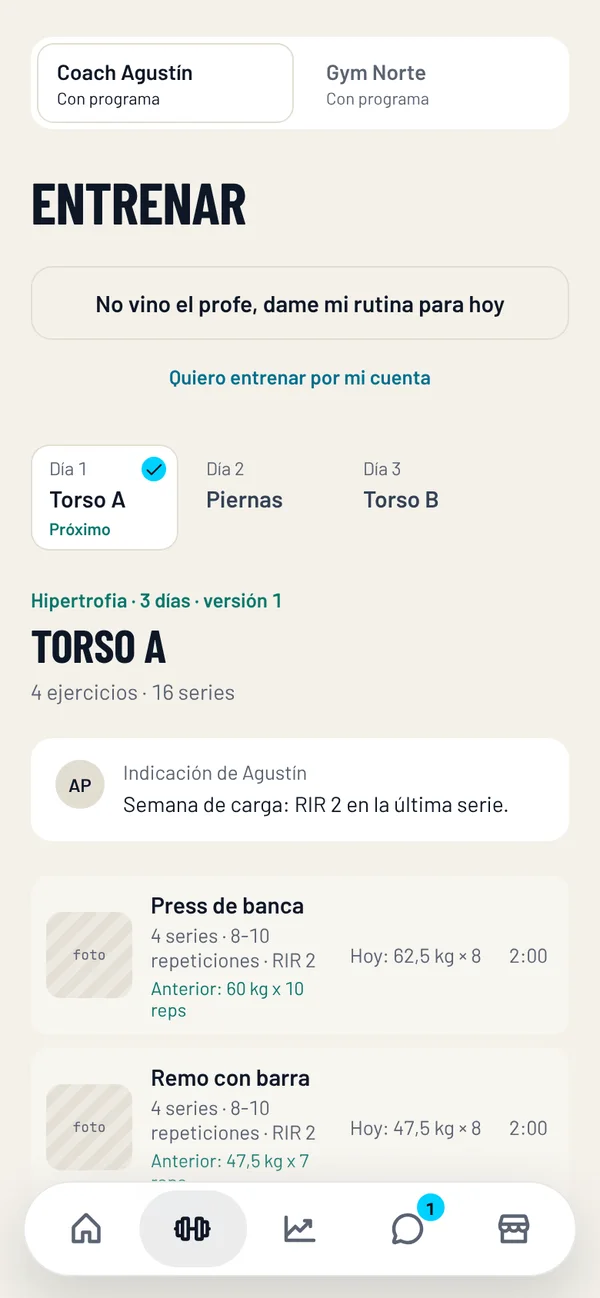
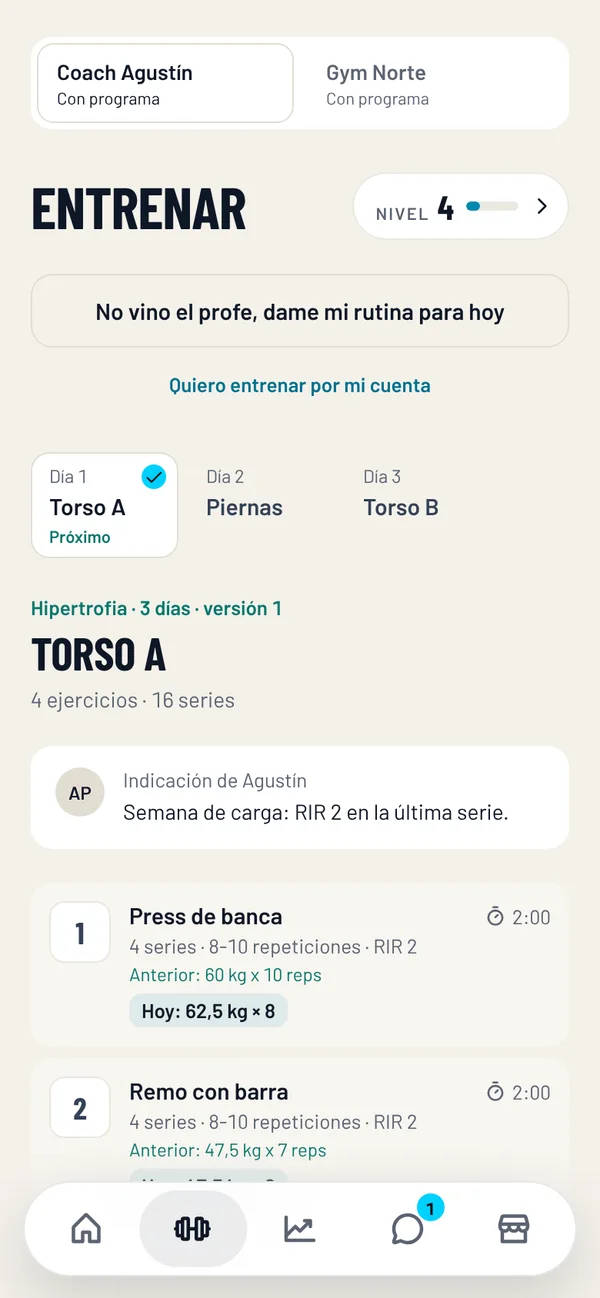
Bitácora del 13/11 y capturas del socio de /conoce con la app publicada (#120)
PROXIMA_SESION: vista del alumno (#119), seis films (#118) y pulido de /conoce (#116) publicados y verificados. /conoce: member, adaptive e intelligence recapturadas con la app publicada.

Claude-Session: https://claude.ai/code/session_01N29uD6UnSfVBnKXaii7k3k

diff --git a/docs/continuidad/PROXIMA_SESION.md b/docs/continuidad/PROXIMA_SESION.md
@@ -1,16 +1,19 @@
 # REPI — Retomar acá
 
-Actualizado: 13/11/2026 (**vista del alumno — aviso de datos del pedido, alerta sonora del descanso, nivel a la vista y mejoras visuales: en la rama `claude/alumno-mejoras`, sin publicar, sin migración**); antes, 13/11/2026 (**REPI Experience 4.0 «The Living Gym» (D219): PUBLICADO Y VERIFICADO (#113, `3c119f2`, smoke de producción en verde, sin migración)**); antes, 12/11/2026 (**arreglo de la limpieza de demos vencidas, alerta «sandbox.purge» 23503: PUBLICADO Y VERIFICADO (#112, `4c01c5a`), sin migración**); antes, 12/11/2026 (**REPI Sales Intelligence 1.0 — Captación (D218, 0056): PUBLICADO (#107 `75995cc`, #108 `7c9c2b5`), 0056 aplicada tras el respaldo #106, piloto cargado en producción**); antes, 12/11/2026 (**Personalización y Progress Intelligence 2.0 (D217, 0055): PUBLICADO Y VERIFICADO (#100, `bd5da5b`, smoke 14/14)**).
+Actualizado: 13/11/2026 (**cierre del 13/11: vista del alumno PUBLICADA Y VERIFICADA (#119, `2f6d7c6`), los seis films restantes PUBLICADOS (#118, `cfb6294`) y pulido de `/conoce` PUBLICADO (#116, `1133920`); todo sin migración**); antes, 13/11/2026 (**REPI Experience 4.0 «The Living Gym» (D219): PUBLICADO Y VERIFICADO (#113, `3c119f2`, smoke de producción en verde, sin migración)**); antes, 12/11/2026 (**arreglo de la limpieza de demos vencidas, alerta «sandbox.purge» 23503: PUBLICADO Y VERIFICADO (#112, `4c01c5a`), sin migración**); antes, 12/11/2026 (**REPI Sales Intelligence 1.0 — Captación (D218, 0056): PUBLICADO (#107 `75995cc`, #108 `7c9c2b5`), 0056 aplicada tras el respaldo #106, piloto cargado en producción**); antes, 12/11/2026 (**Personalización y Progress Intelligence 2.0 (D217, 0055): PUBLICADO Y VERIFICADO (#100, `bd5da5b`, smoke 14/14)**).
 
 
-## Vista del alumno: aviso de datos del pedido, alerta sonora del descanso, nivel a la vista y mejoras visuales — 13/11/2026 · EN RAMA, SIN PUBLICAR
+## Vista del alumno: aviso de datos del pedido, alerta sonora del descanso, nivel a la vista y mejoras visuales — 13/11/2026 · PUBLICADO Y VERIFICADO (#119, `2f6d7c6`)
 
 - **Pedidos del titular (13/11):**
   1. «A algunos alumnos que pidieron rutina cuando no se podían cargar los objetivos no les aparece la notificación para que los carguen y le llegue a REPI».
   2. «En el timer del descanso, que los últimos diez segundos haga un sonido de alerta, que siga sonando hasta que arrancás la serie, y la notificación además. Que tenga que habilitarse».
   3. «Que el nivel de la persona aparezca en la home también, o en la sección de entrenamiento».
   4. «Fijate qué upgrades visuales podés agregar en cada vista. Principalmente la del alumno».
-- **Rama:** `claude/alumno-mejoras` (worktree `/home/user/repi-alumno`), con `main` `301a800` integrado. **Sin PR, sin merge, sin despliegue.** **Sin migraciones** y sin dependencias nuevas.
+- **Estado:** PR #119 integrado por squash en `main` (`2f6d7c6`) y desplegado (aprobación del titular del 13/11: «te doy acceso total y libertad total»). **Sin migraciones** y sin dependencias nuevas.
+- **Verificación en producción (sólo con la demo pública):** Inicio muestra «Te faltan 122 puntos para el nivel 5», Entrenar muestra la píldora de nivel y la lista sin el cuadro «foto», el descanso muestra «Avisarme · Sonido · Notificación», `/api/me/program-request` responde con el campo `late`, sin errores de consola ni respuestas 5xx, y Vercel sin errores de ejecución en la hora posterior.
+- **Revisión antes de publicar:** e2e nuevos y de regresión contra el build de la rama con `main` integrado (`member-brief-late` 16/16 repetido cuatro veces; `member-level`, `member-visual`, `rest-sound`, `member-workout` y `member-home-flow` 20/20). Esa repetición encontró un defecto: tras tocar «Ahora no», una respuesta pedida antes del toque podía volver a mostrar el aviso; corregido (`MemberApp.tsx`, el toque queda firme durante la visita).
+- **Las siete pruebas e2e que fallaban** (`mobile-layout` 2, `personal-progress` 3, `theme-visual` 1, `timed-exercises` 1) fallan igual en `main` sin estos cambios (corrida comparativa: 13 fallas contando teléfono y escritorio): no son regresiones.
 
 ### 1 · Aviso para cargar objetivo y datos del pedido de programa
 - **Causa:** el aviso de D206 (`pendingBriefs`) sólo miraba pedidos de programa **abiertos**. Cuando el profe respondía el pedido, el aviso desaparecía aunque la persona nunca hubiera cargado nada.
@@ -68,7 +71,6 @@ Actualizado: 13/11/2026 (**vista del alumno — aviso de datos del pedido, alert
 - Capturas antes/después: `scratchpad/alumno/t1` … `t4` (fuera del repositorio).
 
 ### Próxima acción
-- El titular revisa y decide la publicación (PR a `main`; no hay migración ni respaldo previo que correr).
 - Probar la alerta del descanso en un Android y en un iPhone reales (pantalla bloqueada, otra app, modo silencio, con música sonando).
 - Si quiere llegar a un iPhone bloqueado: decidir el planificador de push por descanso (ver arriba).
 - Pendiente menor: poner al día las specs que D217 dejó atrás (`mobile-layout`, `personal-progress`, `theme-visual`, `timed-exercises`).
@@ -110,20 +112,21 @@ Actualizado: 13/11/2026 (**vista del alumno — aviso de datos del pedido, alert
   - En esa publicación quedaron sin tocar `perfil-entrenadores`, `perfil-deportistas`, `perfil-aliados`, `f-progreso`, `f-altas` y `f-sala` (rehechos después en `claude/films-6`, ver más abajo).
 - **Pendiente:**
   1. Mirar `/conoce` en un iPhone y en un Android de gama media (fluidez de la sala y giro del dispositivo). Tampoco se probó en Safari ni Firefox, y nadie escuchó los films.
-  2. Revisar y publicar los seis films rehechos (rama `claude/films-6`) y conseguir el logo en vectorial o más grande (hoy 315×154 px) para los cierres.
+  2. ~~Publicar los seis films rehechos~~ **Hecho el 13/11 (#118)**. Sigue pendiente conseguir el logo en vectorial o más grande (hoy 315×154 px) para los cierres.
   3. ~~Volver a capturar `access.webp`, `owner.webp` y `control-equipo.webp` y unificar las capturas de 53 kg~~ **Hecho el 13/11** (ver «Pulido» más abajo).
   4. ~~Referencia del vendedor en eventos del sitio y `/qr`~~ **Descartado por el titular el 13/11** (ver «Pulido» más abajo).
 - **Decisiones para el titular:** confirmar el texto de la prueba social en la apertura («Ya funciona en Mar del Plata.») y en el caso.
 - **Pulido del 13/11 (pedido del titular: «hacé todo lo que tengas que hacer para que todo quede perfecto», con libertad total):**
   - **Referencia del vendedor:** el código ya no se agrega al mensaje de WhatsApp («eso no tiene que estar en /conoce en ningún lado»). Queda sólo lo que ya existía desde D209: si alguien entra por el enlace personal de un vendedor (`/conoce?ref=V-XXXXXX`, que el vendedor copia de su panel), el formulario lo manda oculto como origen del contacto. El visitante no lo ve en ningún lado. Si el titular tampoco quiere eso, hay que quitar el enlace personal del panel de vendedores (decisión de negocio de D209, no se tocó).
   - **Capturas rehechas** con `design/films/kit/tools/shots-conoce.mjs` (demo local): `training`, `intelligence`, `adaptive`, `owner` (ahora «Seguimiento de sala»), `access` y `control-equipo`. Sin avisos del entorno de demo ni píldora «DEMO»; las del socio muestran el mismo ejemplo que la escena en vivo (60 kg × 10 → 62,5 kg, calculado por el motor real). Detalle en `docs/comercial/EXPERIENCE_4.md` §8.
-  - **Los seis films restantes: rehechos en la rama `claude/films-6`, SIN publicar (sin PR, merge ni deploy): esperan revisión.**
+  - **Los seis films restantes: PUBLICADOS (#118, `cfb6294`).** Revisados antes con tiras de contacto propias de los siete archivos; en producción los archivos son idénticos a los del repositorio y `perfil-entrenadores` carga y reproduce desde `/conoce/entrenadores` (0:41, sin errores). Ya no queda ningún film con el kit anterior.
     - `perfil-entrenadores` 0:41, `perfil-deportistas` 0:38 (16:9 y 9:16), `perfil-aliados` 0:48, `f-progreso` 0:23, `f-altas` 0:26, `f-sala` 0:27.
     - Archivos: `apps/web/public/conoce/videos/` (mp4, póster y `.descripcion.vtt` de los seis), `apps/web/src/content/conoce.ts` (duraciones y resúmenes), `design/films/kit/` (`build.py`, `tools/rec-hd.mjs`, `finish.py`, `render-all.sh`), fuentes en `design/films/{entrenadores,deportistas,deportistas-vertical,aliados,progreso,altas,sala}`, `design/films/SPEC.md`, `docs/comercial/{EXPERIENCE_4,VIDEOS_PENDIENTES}.md`, `marketing/videos/LICENCIAS.md`.
     - Pruebas: `ffprobe` y sonoridad medidos (−14,0 a −14,6 LUFS; pico ≤ −2,1 dBTP), tira de contacto de cada archivo mirada entera; `pnpm typecheck` y guardas en verde. No se corrió la e2e de `/conoce` ni se escuchó ningún film. Sin migraciones.
     - Decisión para el titular: `perfil-aliados` dice «Ya funciona en Mar del Plata» con el logo de Smart Center Gym (la misma frase del sitio, que sigue pendiente de confirmación).
-    - Próxima acción: revisar la rama (tabla y límites en `docs/comercial/EXPERIENCE_4.md` §14) y, si se aprueba, PR a `main`.
-  - Pruebas: typecheck, guardas 26/26, `e2e/conoce*.spec.ts` 96 pasan y 2 omitidas.
+    - Límites que quedan: nadie escuchó los films; sólo `perfil-deportistas` tiene 9:16; el QR que se ve en `f-altas` es el de la demo local.
+  - Pruebas: typecheck, guardas 26/26, `e2e/conoce*.spec.ts` 96 pasan y 2 omitidas. **Publicado (#116, `1133920`)** y verificado en producción: capturas idénticas a las del repositorio y el código del vendedor ausente de la página y del enlace de WhatsApp.
+  - **Capturas del socio, segunda pasada (después de #119):** `member`, `adaptive` e `intelligence` se volvieron a capturar con la app ya publicada, para que `/conoce` muestre el nivel en Inicio y en Entrenar y la lista de ejercicios nueva. `shots-conoce.mjs` ahora también captura `member`.
 
 ## Arreglo: limpieza de demos vencidas (alerta «sandbox.purge», código 23503) — 12/11/2026 · PUBLICADO Y VERIFICADO (#112, `4c01c5a`)
 

diff --git a/docs/comercial/EXPERIENCE_4.md b/docs/comercial/EXPERIENCE_4.md
@@ -150,6 +150,7 @@ Rutas relativas a `apps/web/src/`.
   - `owner` ahora es «Seguimiento de sala» (pedidos recibidos, resueltos y tiempos); el tablero «Ejecutivo» de la demo está casi en cero.
   - `access`: el email ficticio de la demo se muestra con un dominio de ejemplo.
   - `training-piezas.webp` es la captura anterior, que sólo usa `EngineScreen.tsx` para recortar piezas de interfaz sin números (los recortes van por coordenadas).
+  - **Segunda pasada (13/11, después de publicar la vista del alumno, #119):** `member`, `adaptive` e `intelligence` se volvieron a capturar con el nivel a la vista en Inicio y en Entrenar y la lista de ejercicios nueva.
   - **Sigue distinto:** la demo que prueba el visitante y los films muestran el ejemplo de la demo (53 kg). Cada uno es coherente por dentro.
 
 ## 9. Veracidad
